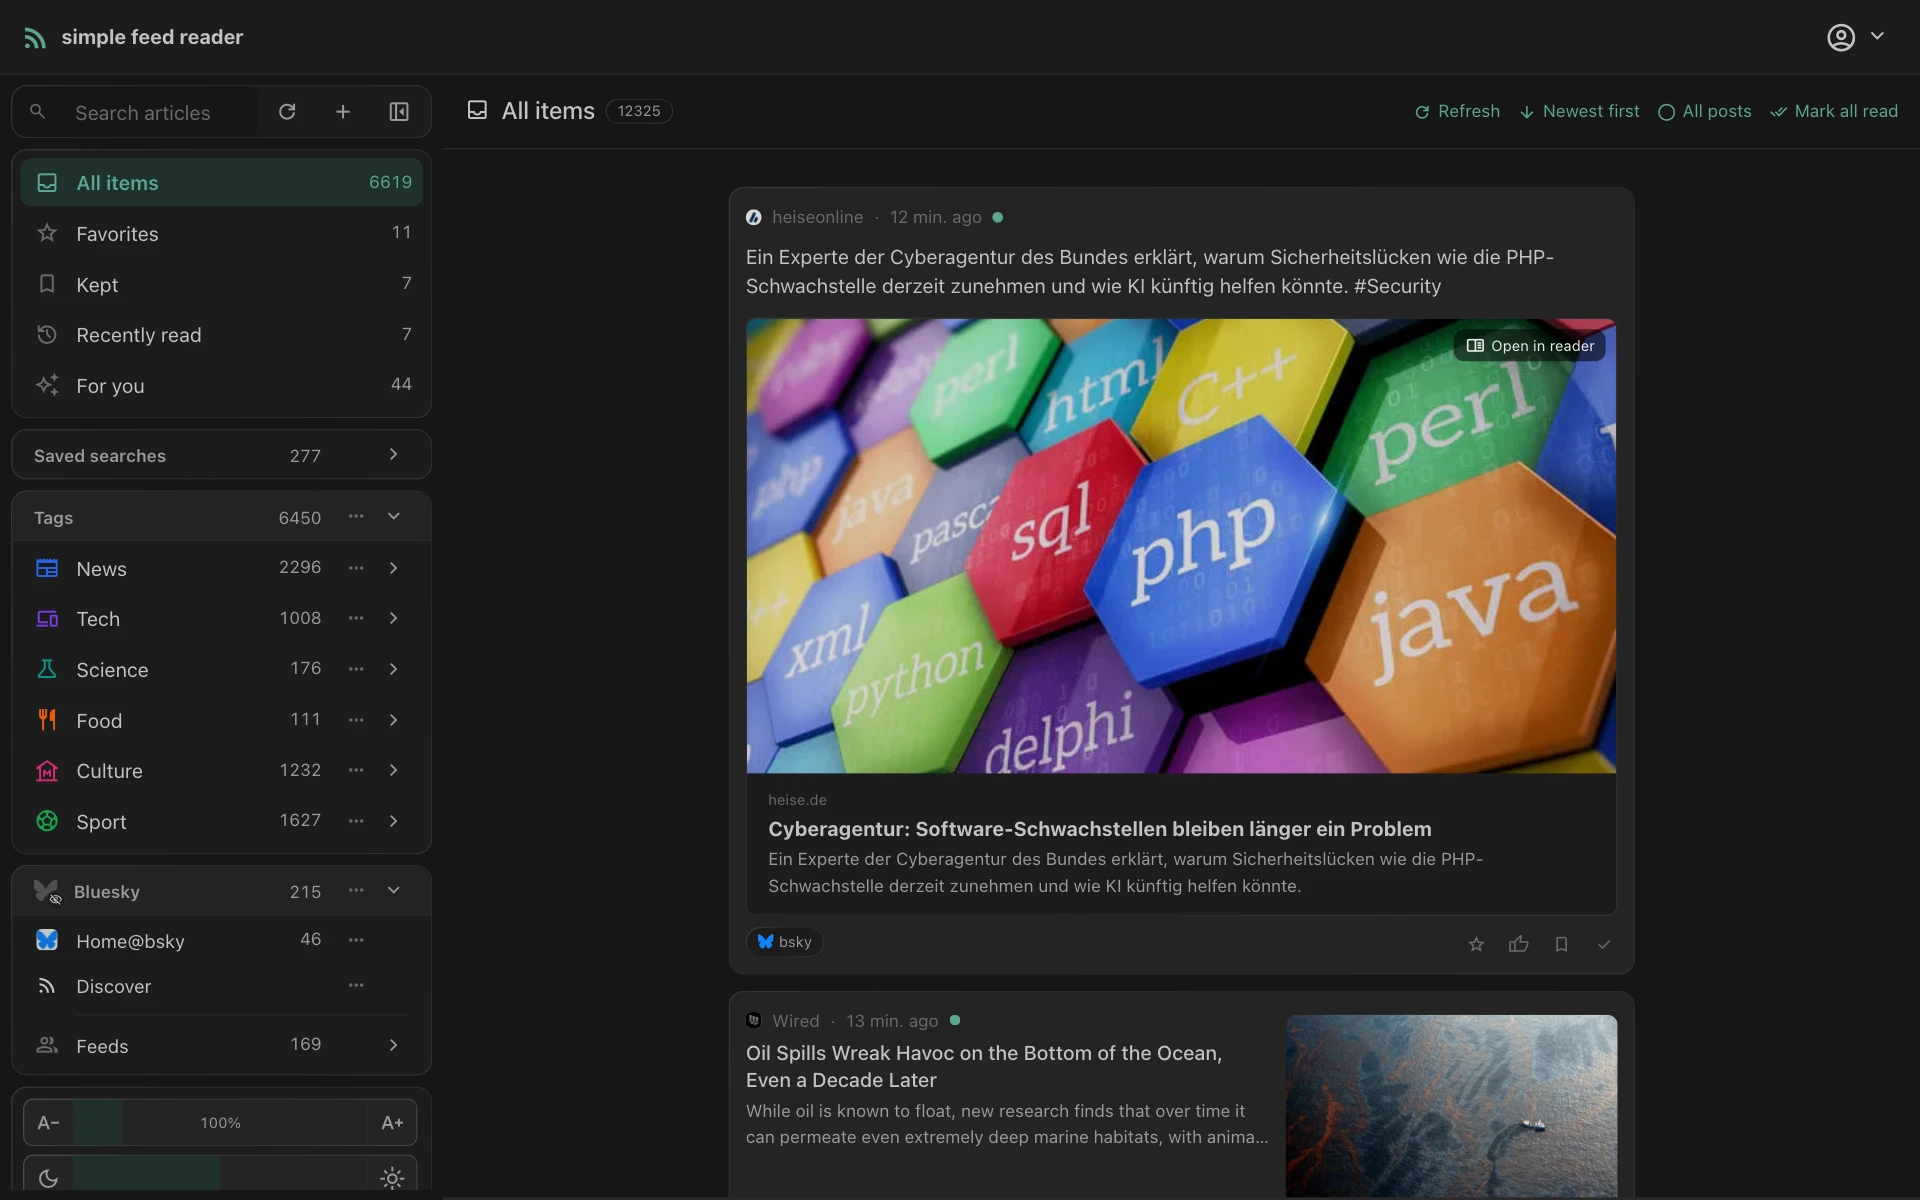
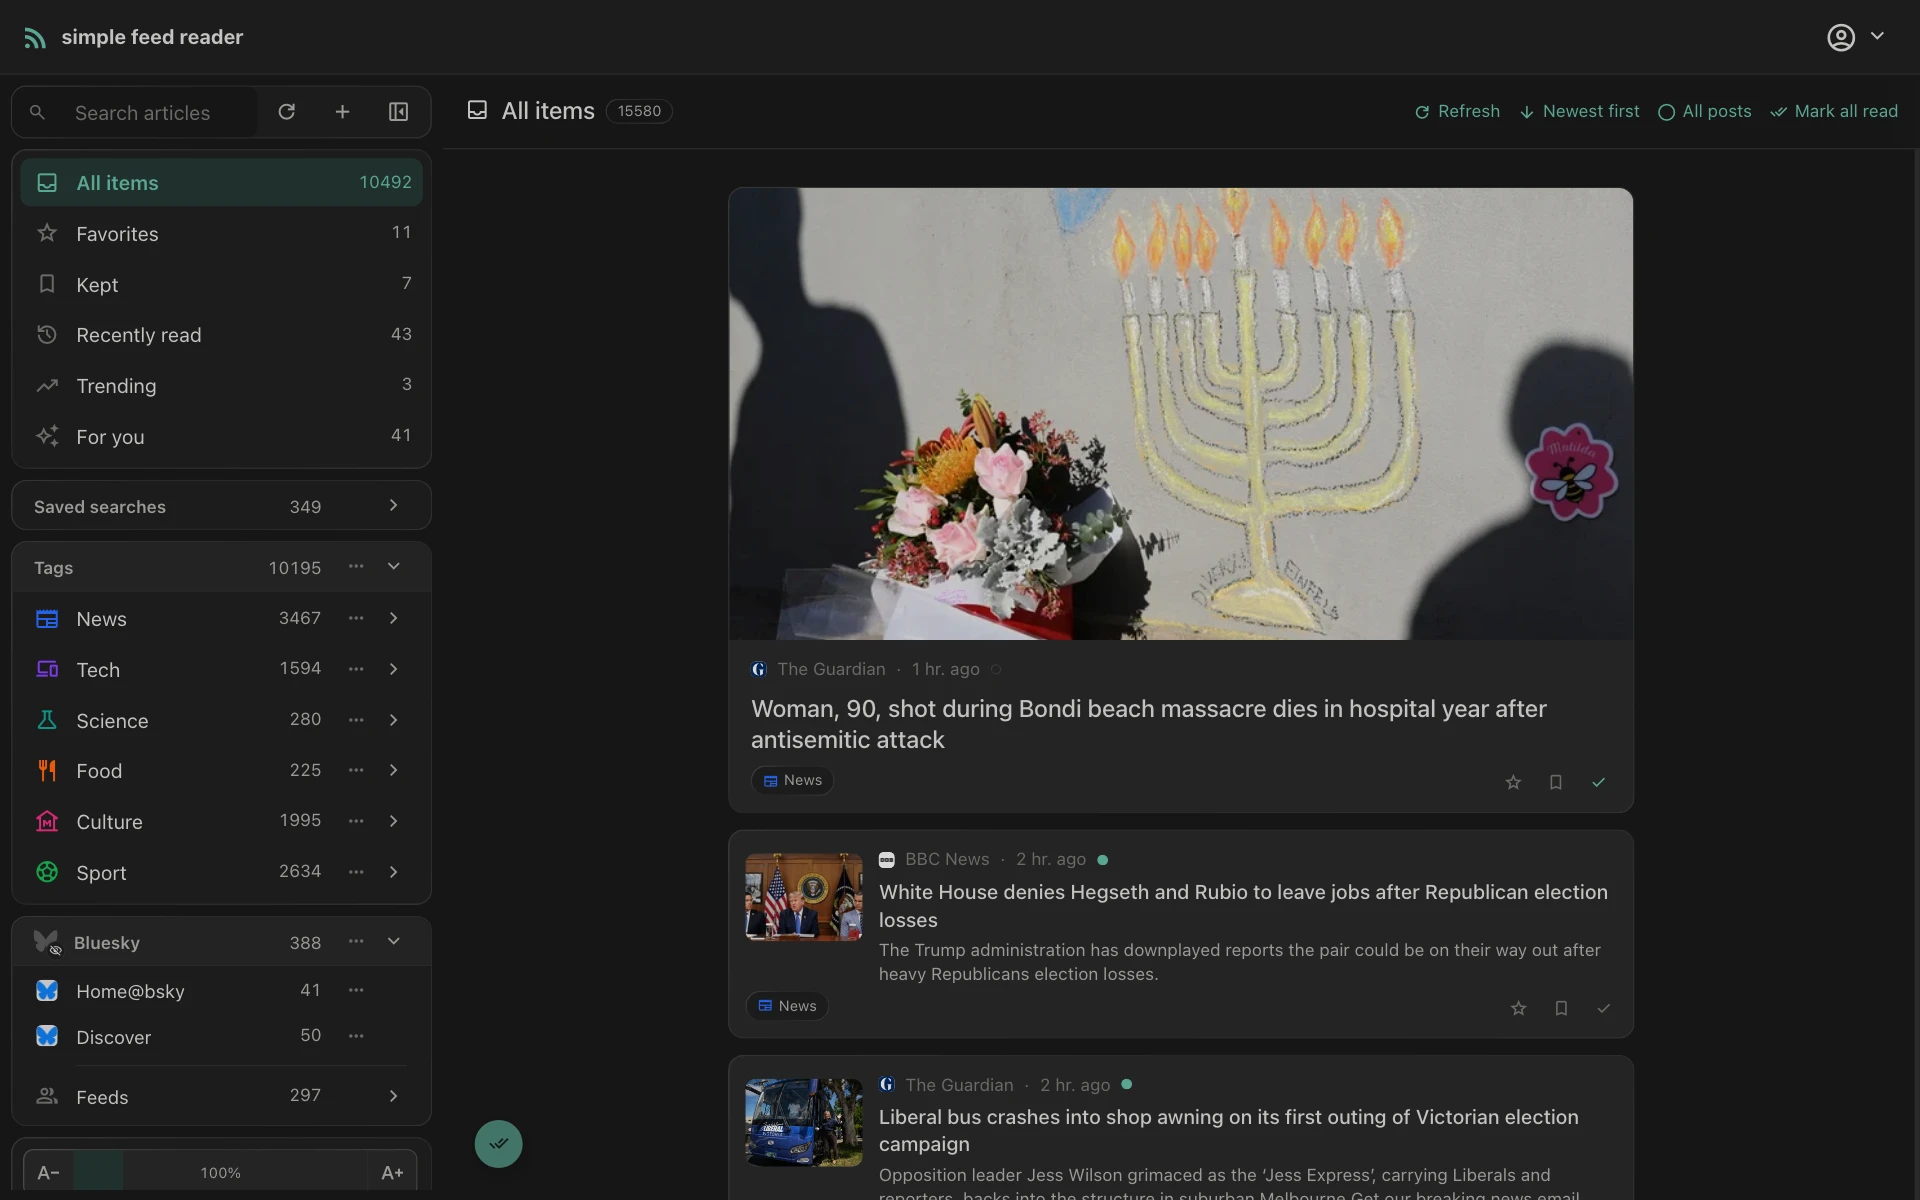
docs: screenshots show Trending in the sidebar, plus a Trending section

diff --git a/frontend/scripts/screenshots/README.md b/frontend/scripts/screenshots/README.md
@@ -25,6 +25,11 @@ BLUESKY_IMPORT_HANDLES=heise.de,hankgreen.bsky.social BLUESKY_IMPORT_COLLECTIONS
 node --env-file=.env.screenshots scripts/screenshots/shots.mjs library social
 node --env-file=.env.screenshots scripts/screenshots/bluesky-setup.mjs teardown
 
+# The Trending shots need news feeds whose stories overlap: borrow some, shoot, give them back.
+node --env-file=.env.screenshots scripts/screenshots/trending-setup.mjs
+node --env-file=.env.screenshots scripts/screenshots/shots.mjs trending-light mobile-trending-light
+node --env-file=.env.screenshots scripts/screenshots/trending-setup.mjs teardown
+
 # The Listening shots need podcasts the demo does not follow: borrow some, shoot, give them back.
 node --env-file=.env.screenshots scripts/screenshots/podcast-setup.mjs        # prints PODCAST_TAG=<id>
 PODCAST_TAG=<id> node --env-file=.env.screenshots scripts/screenshots/shots.mjs listening

diff --git a/docs/screenshots.md b/docs/screenshots.md
@@ -89,6 +89,17 @@ quotes — with its likes and replies in the reader.
   <img src="screenshots/mobile-bluesky-post-dark.webp" alt="A Bluesky post in the reader on a phone, dark theme" width="24%">
 </p>
 
+## Trending
+
+The stories several of your feeds are covering, one card per story, ranked by
+how many sources ran it, over the last 24 hours or the last 7 days.
+
+![Trending stories over the last 24 hours](screenshots/trending-light.webp)
+
+<p>
+  <img src="screenshots/mobile-trending-light.webp" alt="Trending on a phone" width="24%">
+</p>
+
 ## "For you"
 
 An optional personal feed. A model of your choice ranks your unread entries
